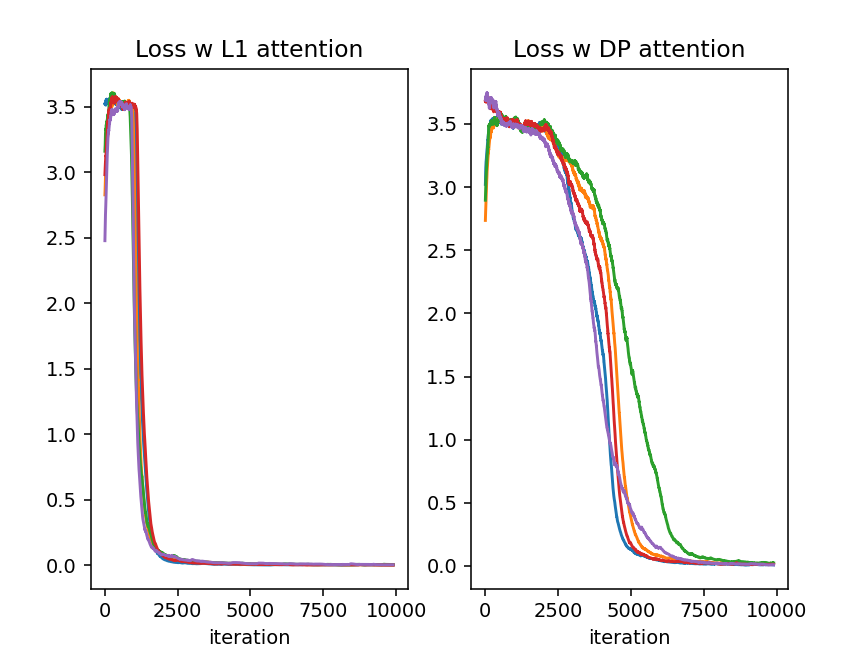
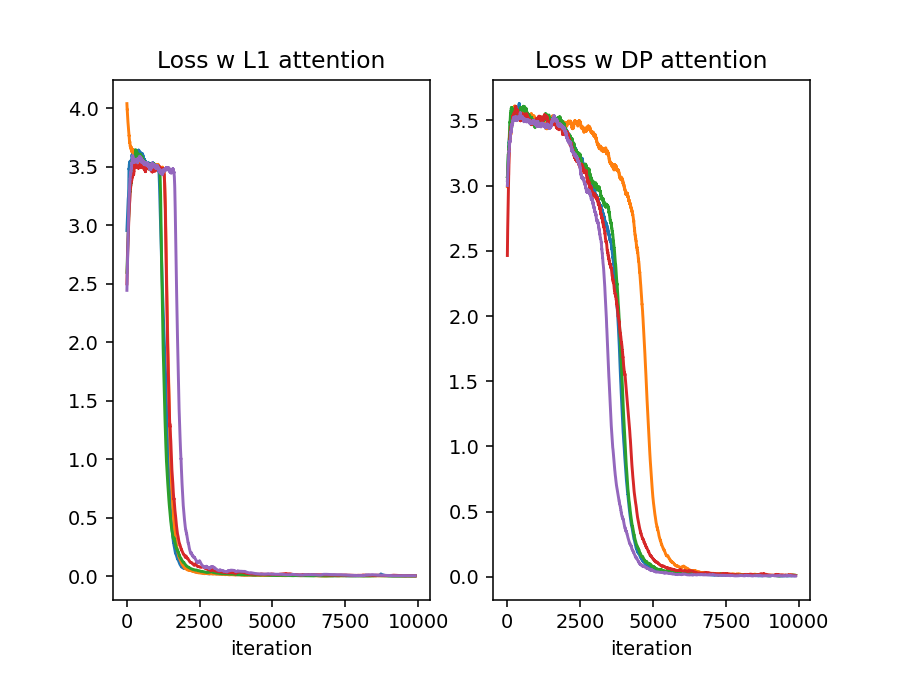
updated figure.

Changed region(s): [[0.0312, 0.0607, 0.9353, 1.0]]

diff --git a/example/model.py b/example/model.py
@@ -60,10 +60,10 @@ class ResidualAttentionBlock(nn.Module):
 
 	def forward(self, x: torch.Tensor):
 		if(self.use_l1attn):
-			x = x + self.attention_l1(self.ln_1(x)) #self.ln_1(x) 
+			x = x + self.attention_l1(x) #self.ln_1(x) 
 		else:
-			x = x + self.attention_dp(self.ln_1(x)) #self.ln_1(x) 
-		x = x + self.mlp(self.ln_2(x)) #self.ln_2(x)
+			x = x + self.attention_dp(x) #self.ln_1(x) 
+		x = x + self.mlp(x) #self.ln_2(x)
 		return x
 
 
